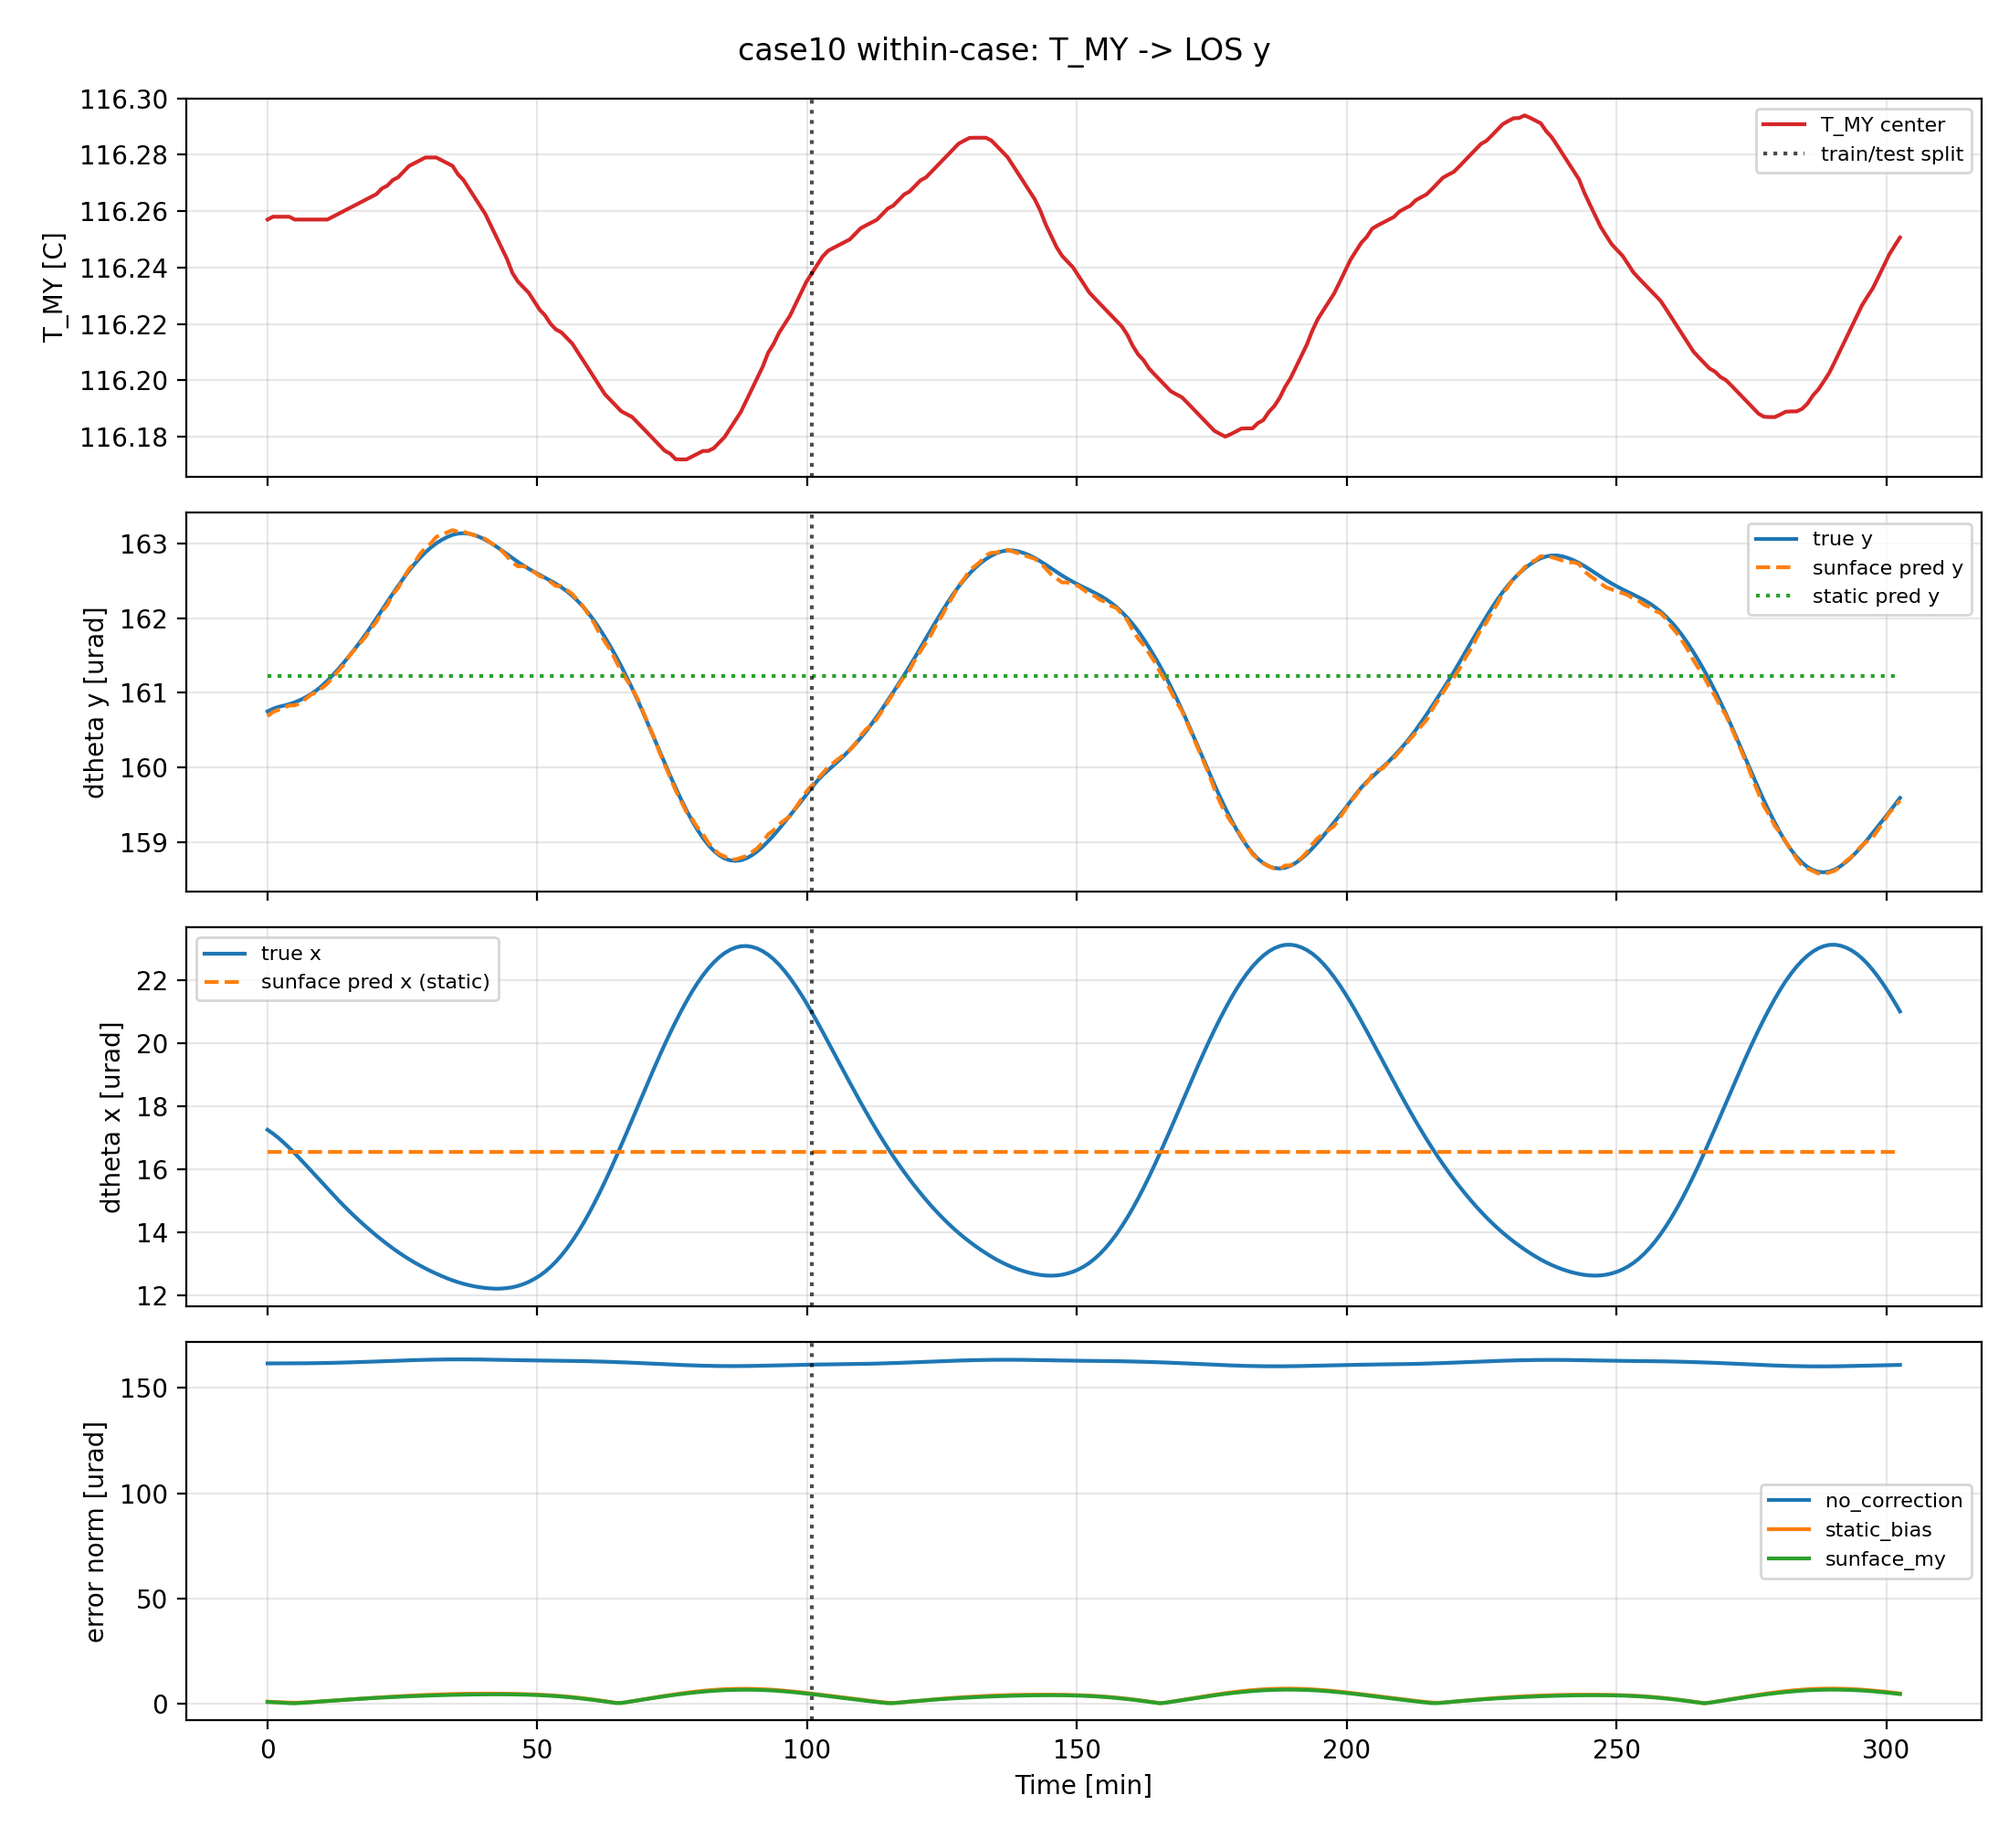
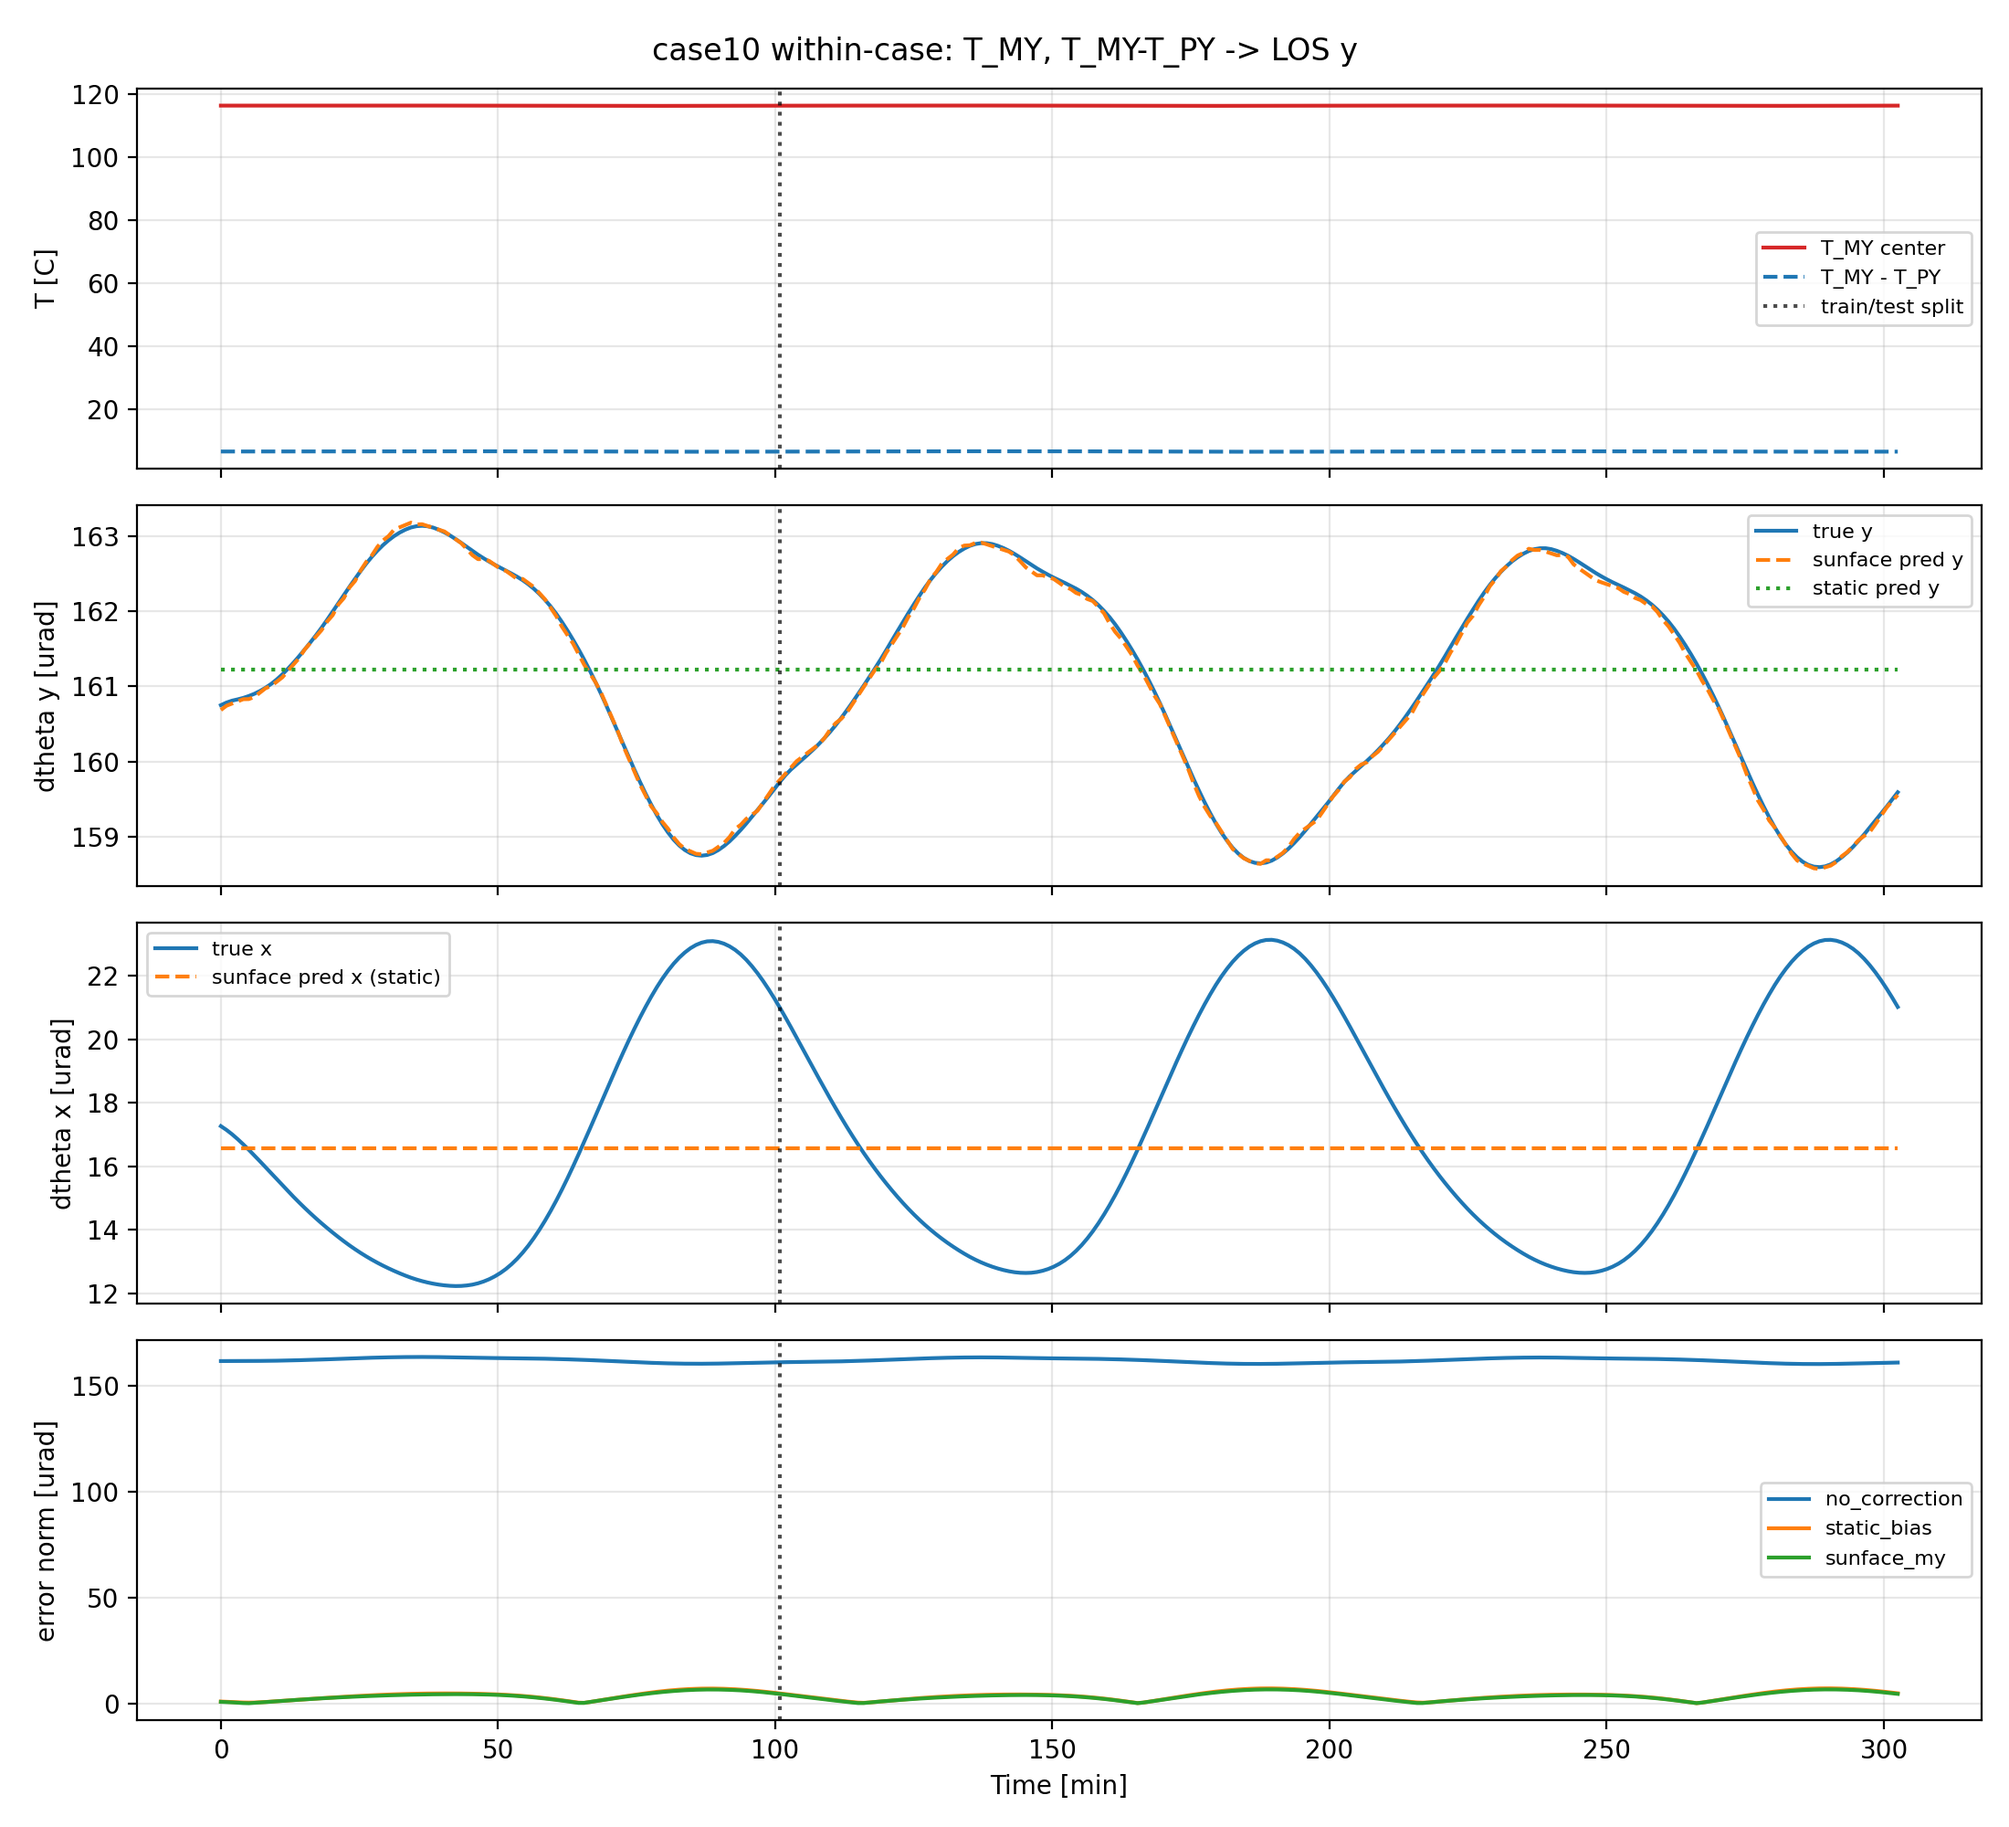
温度差も図で見れるようにしたよ（within case）

diff --git a/src/pat_acquisition/models/sunface_los/validate.py b/src/pat_acquisition/models/sunface_los/validate.py
@@ -36,6 +36,7 @@ from pat_acquisition.models.sunface_los.dataset import (  # noqa: E402
     within_case_split_mask,
 )
 from pat_acquisition.models.sunface_los.features import (  # noqa: E402
+    SUN_FACE_OPPOSITE,
     SunfaceFeatureConfig,
     build_sunface_features,
     normalize_sun_direction,
@@ -191,6 +192,9 @@ def validate_one_case(
     predictions.to_csv(predictions_path, index=False, encoding="utf-8-sig")
     pd.DataFrame(metrics_rows).to_csv(metrics_path, index=False, encoding="utf-8-sig")
     coef_df.to_csv(coef_path, index=False, encoding="utf-8-sig")
+    t_opposite_diff = None
+    if "t_sunface_minus_opposite_c" in features_df.columns:
+        t_opposite_diff = features_df["t_sunface_minus_opposite_c"].to_numpy(dtype=float)
     plot_within_case(
         plot_path,
         case_tag,
@@ -203,6 +207,7 @@ def validate_one_case(
         pred_no,
         features_df["t_sunface_c"].to_numpy(dtype=float),
         train_mask,
+        t_opposite_diff=t_opposite_diff,
     )
 
     print(f"Case: {case_id}")
@@ -285,16 +290,26 @@ def plot_within_case(
     pred_no: np.ndarray,
     t_sunface: np.ndarray,
     train_mask: np.ndarray,
+    t_opposite_diff: np.ndarray | None = None,
 ) -> None:
     t_min = times_s / 60.0
     train_end_min = float(times_s[train_mask][-1] / 60.0) if np.any(train_mask) else t_min[0]
     model_label = f"sunface_{sun_face.lower()}"
+    opposite_face = SUN_FACE_OPPOSITE.get(sun_face)
 
     fig, axes = plt.subplots(4, 1, figsize=(11, 10), sharex=True)
 
     axes[0].plot(t_min, t_sunface, color="#d62728", label=f"T_{sun_face} center")
+    if t_opposite_diff is not None and opposite_face is not None:
+        axes[0].plot(
+            t_min,
+            t_opposite_diff,
+            color="#1f77b4",
+            linestyle="--",
+            label=f"T_{sun_face} - T_{opposite_face}",
+        )
     axes[0].axvline(train_end_min, color="k", linestyle=":", alpha=0.7, label="train/test split")
-    axes[0].set_ylabel(f"T_{sun_face} [C]")
+    axes[0].set_ylabel("T [C]")
     axes[0].grid(True, alpha=0.3)
     axes[0].legend(fontsize=8)
 
@@ -337,7 +352,14 @@ def plot_within_case(
     axes[3].grid(True, alpha=0.3)
     axes[3].legend(fontsize=8)
 
-    fig.suptitle(f"{case_tag} within-case: T_{sun_face} -> LOS {dom_name}")
+    if t_opposite_diff is not None and opposite_face is not None:
+        title = (
+            f"{case_tag} within-case: "
+            f"T_{sun_face}, T_{sun_face}-T_{opposite_face} -> LOS {dom_name}"
+        )
+    else:
+        title = f"{case_tag} within-case: T_{sun_face} -> LOS {dom_name}"
+    fig.suptitle(title)
     fig.tight_layout()
     out_png.parent.mkdir(parents=True, exist_ok=True)
     fig.savefig(out_png, dpi=200)

diff --git a/src/pat_acquisition/README.md b/src/pat_acquisition/README.md
@@ -29,6 +29,8 @@ src/pat_acquisition/
 └── archive/                       # 旧試作スクリプト
 ```
 
+
+
 ## 実行方法
 
 リポジトリルートで実行する。設定は共通 YAML:
@@ -36,6 +38,8 @@ src/pat_acquisition/
 ```text
 src/pat_acquisition/configs/pat_femap_los_config.yaml
 ```
+
+
 
 ### 前提：軽量データセットの構築（温度・Sunface 用）
 
@@ -106,6 +110,8 @@ PAT 粗捕捉評価（MX/MY/PX/PY ケース。MZ はスキップ）:
 ```powershell
 python "src/pat_acquisition/models/sunface_los/run_pat.py"
 python "src/pat_acquisition/models/sunface_los/run_pat.py" --cases 4,5,6
+
+# 一覧示す用。実行はしない
 python "src/pat_acquisition/models/sunface_los/run_pat.py" --list-cases
 ```
 
@@ -116,6 +122,8 @@ python "src/pat_acquisition/models/sunface_los/run_pat.py" --list-cases
 ```powershell
 python "src/pat_acquisition/run_pat_with_femap_los.py"
 ```
+
+
 
 ## 入力
 
@@ -191,6 +199,8 @@ python "src/pat_acquisition/models/fourier_los/run_pat.py" `
   --max-range-urad 1600
 ```
 
+
+
 ## 粗捕捉スキャンの想定
 
 粗捕捉は、scan centerから外側へ広がる矩形スパイラルスキャンとしてモデル化している。各scan点で `dwell_time_s` だけ滞在し、真の目標位置がそのscan点から `detect_radius_urad` 以内に入れば捕捉成功とする。
@@ -217,3 +227,4 @@ python src/orbit/run_orbit_prediction_error.py
 python src/pat_acquisition/runners/run_femap_los_truth.py
 python src/pat_acquisition/models/fourier_los/run_pat.py
 ```
+
